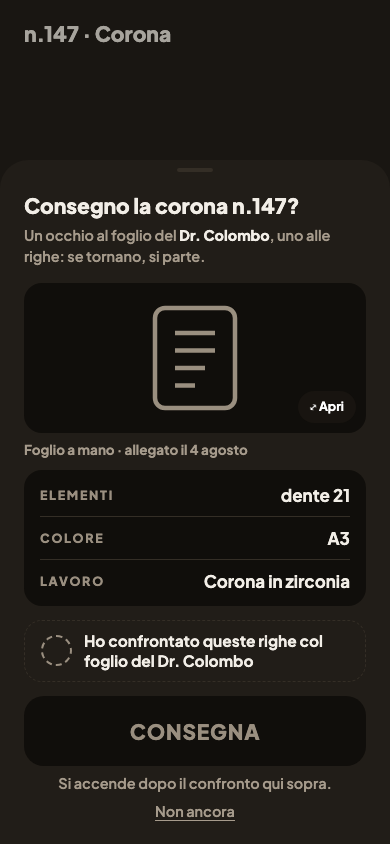
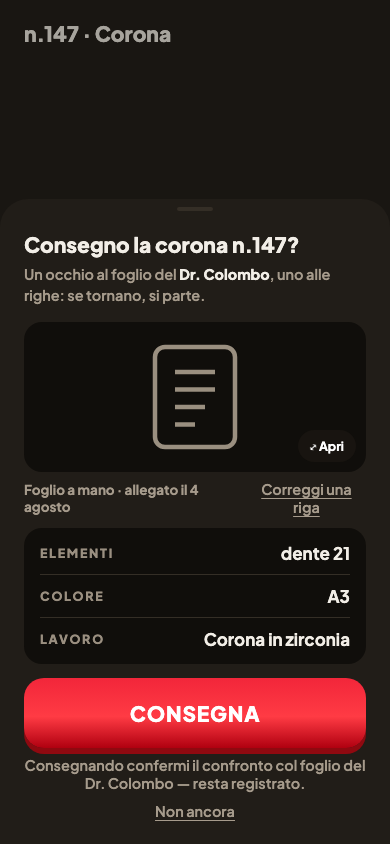
docs(verbale): D210-D213 — le quattro scelte sui mockup dell'ondata B; spec completa, attesa ratifica
D210: variante B «il framing prima» (colore del Passo 3 = trascrizione,
sgancio «lo scegliamo noi», tre vie di modifica). D211: mini-foglio D1
per «chi ha prescritto». D212: gesto typo-vs-divergenza ratificato.
D213: conferma di consegna in forma LEGGERA — la due-tempi è stata
respinta («troppo attrito») e ridisegnata nello stesso turno: il tocco
su CONSEGNA è la conferma, V5 di D207 intatto (miniatura affiancata +
registrazione chi/quando); più leggero di così riapre V5.

Spec §4 riempita con le scelte; mockup C aggiornato (scena 2 leggera,
scena 3 rimossa) e rifotografato. Roadmap (59) e memoria (135) allineate.

Changed region(s): [[0.0615, 0.5237, 0.9538, 0.955], [0.0615, 0.1848, 0.8615, 0.7085], [0.8, 0.4621, 0.8923, 0.4929]]

diff --git a/docs/design/mockups/2026-08-04-ondata-b-C-precheck-consegna.html b/docs/design/mockups/2026-08-04-ondata-b-C-precheck-consegna.html
@@ -147,8 +147,8 @@ body{font-family:'Plus Jakarta Sans',system-ui,sans-serif;background:#ddd6c4;col
   </div>
 </div>
 
-<!-- ═══════════════ SCENA 2 — La conferma guardando il foglio (disarmata) ═══════════════ -->
-<div class="nota-scena">Foglio 2 di 3 — <b>la conferma di consegna, guardando il foglio</b> (V5): la prescrizione davanti agli occhi, le righe trascritte sotto, e la spunta da armare. Il CONSEGNA resta spento finché non attesti — e ti dice perché.</div>
+<!-- ═══════════════ SCENA 2 — La conferma leggera: il CONSEGNA È la conferma ═══════════════ -->
+<div class="nota-scena">Foglio 2 di 2 — <b>la conferma LEGGERA</b> (ridisegno dopo il «troppo attrito» di Francesco): niente spunta da armare, il tasto è subito acceso. Il foglio sta davanti agli occhi, le righe sotto, e toccando CONSEGNA confermi il confronto — chi e quando restano registrati. Zero tocchi in più rispetto a oggi.</div>
 <div class="scena" id="scena-2">
   <div class="sfondo-scheda" aria-hidden="true">
     <div class="sfondo-titolo">n.147 · Corona</div>
@@ -166,6 +166,7 @@ body{font-family:'Plus Jakarta Sans',system-ui,sans-serif;background:#ddd6c4;col
       </div>
       <div class="fonte-eti">
         <span class="fonte-nome">Foglio a mano · allegato il 4 agosto</span>
+        <button class="quieto">Correggi una riga</button>
       </div>
 
       <div class="confronta">
@@ -182,66 +183,11 @@ body{font-family:'Plus Jakarta Sans',system-ui,sans-serif;background:#ddd6c4;col
           <span class="conf-v">Corona in zirconia</span>
         </div>
       </div>
-
-      <button class="attesta">
-        <span class="attesta-tondo"></span>
-        <span class="attesta-testo">Ho confrontato queste righe col foglio del Dr. Colombo</span>
-      </button>
-
-      <button class="tp-btn" disabled>Consegna</button>
-      <p class="tp-spiega">Si accende dopo il confronto qui sopra.</p>
-
-      <div style="margin-top:10px;display:flex;justify-content:center">
-        <button class="quieto">Non ancora</button>
-      </div>
-    </div>
-  </div>
-</div>
-
-<!-- ═══════════════ SCENA 3 — La conferma armata ═══════════════ -->
-<div class="nota-scena">Foglio 3 di 3 — <b>la spunta armata</b>: la conferma è registrata (chi e quando finiscono nell'archivio, server-side), il CONSEGNA si accende. Un tap in più, una volta per lavoro — ed è la cosa che rende vera l'attribuzione al medico.</div>
-<div class="scena" id="scena-3">
-  <div class="sfondo-scheda" aria-hidden="true">
-    <div class="sfondo-titolo">n.147 · Corona</div>
-  </div>
-  <div class="scrim"></div>
-  <div class="sheet-wrap">
-    <div class="foglio">
-      <div class="maniglia"></div>
-      <h2 class="foglio-titolo">Consegno la corona n.147?</h2>
-      <p class="foglio-sotto">Un occhio al foglio del <b>Dr. Colombo</b>, uno alle righe: se tornano, si parte.</p>
-
-      <div class="fonte-grande">
-        <svg width="120" height="120" viewBox="0 0 24 24" fill="none" stroke="var(--faint)" stroke-width="0.9"><rect x="4" y="2" width="16" height="20" rx="2"/><line x1="8" y1="7" x2="16" y2="7"/><line x1="8" y1="10.5" x2="16" y2="10.5"/><line x1="8" y1="14" x2="14" y2="14"/><line x1="8" y1="17.5" x2="12" y2="17.5"/></svg>
-        <button class="fonte-apri">⤢ Apri</button>
-      </div>
-      <div class="fonte-eti">
-        <span class="fonte-nome">Foglio a mano · allegato il 4 agosto</span>
-      </div>
-
-      <div class="confronta">
-        <div class="conf-riga">
-          <span class="conf-k">Elementi</span>
-          <span class="conf-v">dente 21</span>
-        </div>
-        <div class="conf-riga">
-          <span class="conf-k">Colore</span>
-          <span class="conf-v">A3</span>
-        </div>
-        <div class="conf-riga">
-          <span class="conf-k">Lavoro</span>
-          <span class="conf-v">Corona in zirconia</span>
-        </div>
-      </div>
-
-      <button class="attesta armata">
-        <span class="attesta-tondo">✓</span>
-        <span class="attesta-testo">Confrontato col foglio del Dr. Colombo — adesso, da te</span>
-      </button>
 
       <button class="tp-btn">Consegna</button>
+      <p class="tp-spiega">Consegnando confermi il confronto col foglio del Dr. Colombo — resta registrato.</p>
 
-      <div style="margin-top:14px;display:flex;justify-content:center">
+      <div style="margin-top:10px;display:flex;justify-content:center">
         <button class="quieto">Non ancora</button>
       </div>
     </div>

diff --git a/docs/superpowers/specs/2026-08-04-ondata-b-prescrizione-design.md b/docs/superpowers/specs/2026-08-04-ondata-b-prescrizione-design.md
@@ -1,6 +1,6 @@
 # Spec ondata B — «La prescrizione la cattura il wizard» (P38 + P37)
 
-**Stato:** 🚧 BOZZA — in scrittura (sessione ① di 4). Si ratifica DOPO la scelta dei mockup (0B).
+**Stato:** 🟡 SCELTE INCISE (D210-D213, 04/08/2026) — in attesa della RATIFICA finale di Francesco.
 **Quando:** 4 agosto 2026 (`provato:` `date` → `Tue Aug 4 08:31 CEST 2026`).
 **Decide:** Francesco Formicola.
 **Nasce da:** D201 (strada B) · D202 (le 4 forme) · D203 (perimetro P38+P37) · D204 (il wizard
@@ -138,57 +138,71 @@ correggono in questa ondata.
   raggruppa i clienti per `studio_nome` uguale — l'embrione dell'anagrafica per P37 (fragile:
   confronto case-sensitive; le chip che lo consumano oggi sono irraggiungibili — R-E2).
 
-### §4.1 Wizard — il framing della trascrizione (DUE varianti ai mockup)
+### §4.1 Wizard — il framing della trascrizione — ✅ SCELTA: VARIANTE B (D210)
 
-- **Variante A — «La conferma dopo»:** i passi del banco restano INTATTI (zero cambi, zero
-  tap). Nel «Fatto!» la card nuova «La prescrizione» elenca le caratteristiche: elementi con
-  check già acceso (W20), colore e tipo con chip «Era sulla prescrizione?» da accendere con UN
-  tap facoltativo. Chip ignorata = caratteristica FUORI dallo snapshot (V2: omissione lecita).
-- **Variante B — «Il framing prima»:** la casella colore del Passo 3 si presenta come
-  trascrizione («come scritto sulla prescrizione») con lo sgancio «lo scegliamo noi»; il
-  «Fatto!» mostra il riepilogo in sola lettura. Zero tap aggiunti nel percorso felice; il
-  rischio dichiarato: un colore scelto dal laboratorio digitato sotto l'etichetta sbagliata.
+**«Il framing prima»** (parole di Francesco: «*b framing, con la possibilità eventualmente di
+modificare se ci fosse qualche problema*»):
+- La casella colore del Passo 3 si presenta come trascrizione — etichetta **«Colore — come
+  scritto sulla prescrizione»** — con lo sgancio quieto **«Non è sulla prescrizione: lo
+  scegliamo noi»** (LinkQuieto). Scrivere lì È trascrivere: il valore nasce `prescritto`.
+  Con lo sgancio premuto, il valore nasce scelta-di-laboratorio e resta FUORI dallo snapshot.
+- Il «Fatto!» mostra la card «La prescrizione» in **sola lettura**: elementi ✓ (W20), colore ✓
+  se trascritto, e la riga della fonte con lo stato.
+- **Il TIPO entra nello snapshot alla conferma di consegna** (D213): quando l'operatore
+  conferma le righe guardando il foglio, la riga «Lavoro» è fra quelle confermate.
+- **Le tre vie di modifica** (la richiesta esplicita di D210): ① lo sgancio nel Passo 3 ·
+  ② il gesto typo-vs-divergenza (§4.3) su ogni correzione successiva · ③ la finestra «fino
+  alla consegna» (direttiva §9).
+- Fonte di verità visiva: `docs/design/mockups/2026-08-04-ondata-b-A-prescrizione-fatto.html`,
+  scene **b1** e **b2** (+ scatti 390/768/1280 × 2 temi).
+- ⚠ Rischio dichiarato della B, agli atti in D210: un colore scelto dal lab digitato sotto
+  l'etichetta della prescrizione — mitigato da ② e dalla conferma al precheck (§4.4).
 
-### §4.2 Allega la fonte (foglio a scelta breve)
+### §4.2 Allega la fonte (foglio a scelta breve) — come mockup, scena a2
 
-Il CTA del «Fatto!» apre un **foglio a 2 voci** (pattern DS Sheet): «Scatta una foto» (input
-`capture="environment"`, il caso più frequente resta a 2 tap) · «Dalla galleria o un PDF»
-(input `accept="image/*,application/pdf"` SENZA capture). Terza riga quieta per email/
-piattaforma: registra il riferimento (V7 quando non c'è nulla di scritto). Tipo-fonte dedotto
-dal gesto, mai domanda obbligatoria.
+Il CTA del «Fatto!» apre un **foglio a 3 voci** (anatomia MenuVoce §5.34 dentro uno Sheet):
+«Scatta una foto» (input `capture="environment"`, il caso più frequente resta a 2 tap) ·
+«Dalla galleria o un PDF» (input `accept="image/*,application/pdf"` SENZA capture — il
+precedente in casa è la via Galleria di `TabImmagini.tsx:391`) · terza voce quieta «Non ce
+l'ho ancora qui» per email/piattaforma: registra il riferimento (V7 quando non c'è nulla di
+scritto). Tipo-fonte dedotto dal gesto, mai domanda obbligatoria. Fonte visiva:
+`2026-08-04-ondata-b-A-prescrizione-fatto.html`, scena **a2**.
 
-### §4.3 Il gesto typo-vs-divergenza (V4)
+### §4.3 Il gesto typo-vs-divergenza (V4) — ✅ RATIFICATO COME MOSTRATO (D212)
 
 Sulla modifica di un campo CON snapshot (da `ModificaRigaSheet` o dal form modifica): foglio
 «Era scritto così sulla prescrizione?» a DUE rami, nessun default preselezionato (pattern
 EHR/Part 11: la scelta deve essere intenzionale, il valore precedente resta leggibile):
-- «Sì — sto correggendo la trascrizione» → lo snapshot si aggiorna (typo).
-- «No — lo cambiamo noi» → lo snapshot resta, l'eseguito cambia, e si chiede il motivo
+- «Sul foglio c'è scritto …» → lo snapshot si aggiorna (typo).
+- «No: lo stiamo cambiando noi» → lo snapshot resta, l'eseguito cambia, e si chiede il motivo
   (pastiglie: richiesta del dentista · esigenza tecnica · materiale non disponibile · altro,
-  con testo libero facoltativo) — V9.
+  con nota libera facoltativa) — V9. Solo questo ramo lo chiede.
+Fonte visiva: `2026-08-04-ondata-b-B-typo-divergenza.html` (2 scene).
 
-### §4.4 Il precheck arricchito (V1 · V5 · V6 · V7)
+### §4.4 Il precheck arricchito (V1 · V5 · V6 · V7) — ✅ FORMA LEGGERA (D213)
 
-- Bloccante nuovo in «Prima di consegnare»: «Manca la prescrizione allegata» (V1).
-- Alla conferma di consegna: **miniatura della fonte davanti agli occhi** (pattern KFI: su
-  mobile immagine sopra, righe dello snapshot sotto, ingrandibile) + **attestazione a due
-  tempi** («Ho confrontato con la prescrizione del Dr. X» — un tap che arma, il CONSEGNA che
-  parte; mai checkbox pre-spuntata; l'attestazione nomina il documento). Registrata
-  server-side: chi, quando (V5).
-- Caso solo-scansione: bloccante dedicato con percorso di rimedio (conferma scritta del
-  dentista → diventa fonte aggiuntiva) (V6).
-- Caso «in attesa di conferma scritta» (voce/telefono): stato visibile sulla scheda, bloccante
-  alla consegna finché la conferma non arriva (V7).
+- Bloccanti nuovi in «Prima di consegnare» (RigaBloccante §5.30): «Manca il foglio della
+  prescrizione» (V1) · «C'è solo la scansione, senza una scelta scritta del dentista» con
+  percorso di rimedio: conferma scritta → fonte aggiuntiva (V6) · «In attesa di conferma
+  scritta» per la prescrizione a voce/telefono (V7, stato visibile anche sulla scheda).
+- **La conferma di consegna, forma leggera (D213 — la due-tempi è stata respinta):** il
+  foglio della prescrizione davanti agli occhi (pattern KFI: immagine sopra, ingrandibile;
+  righe dello snapshot sotto) e **il tocco su CONSEGNA È la conferma** — tasto subito acceso,
+  frase sotto: «Consegnando confermi il confronto col foglio del Dr. X — resta registrato».
+  Registrazione server-side (chi, quando) nella stessa transazione della consegna (V5).
+  Link quieto «Correggi una riga» → gesto §4.3. Zero tocchi in più rispetto a oggi.
+  ⚠ Confine dichiarato a verbale: più leggero di così riapre V5.
+Fonte visiva: `2026-08-04-ondata-b-C-precheck-consegna.html` (2 scene).
 
-### §4.5 P37 — «chi ha prescritto» (D196, DUE varianti ai mockup)
+### §4.5 P37 — «chi ha prescritto» (D196) — ✅ SCELTA: D1, IL MINI-FOGLIO (D211)
 
-Solo quando il cliente è un'entità (studio/società): **selezione a un tap** fra i medici dello
-studio, default sull'ultimo prescrittore di quel cliente; mai testo libero per-lavoro; il nome
-nuovo si aggiunge all'anagrafica dello studio (pattern NuovoDentistaSheet).
-- **Variante D1:** mini-foglio «Chi ha prescritto?» subito dopo il tile del Passo 1.
-- **Variante D2:** riga di pastiglie inline sotto il tile scelto, nello stesso Passo 1.
-Il prescrittore diventa VISIBILE sulla scheda (oggi `richiedente_nome` non compare da nessuna
-parte nella scheda v3) con la sua via di correzione (direttiva §9).
+Solo quando il cliente è un'entità (studio/società): dopo il tile del Passo 1 sale il
+mini-foglio «Chi ha prescritto?» con **l'ultimo prescrittore di quel cliente già proposto**
+(un tap e via); gli altri medici sotto; «È un altro» aggiunge il medico all'anagrafica dello
+studio (pattern NuovoDentistaSheet) — mai testo libero per-lavoro. Per il dottore singolo il
+foglio non compare mai (D196). Il prescrittore diventa VISIBILE sulla scheda (oggi
+`richiedente_nome` non compare da nessuna parte nella scheda v3) con la sua via di correzione
+(direttiva §9). Fonte visiva: `2026-08-04-ondata-b-D-chi-ha-prescritto.html`, scena **d1**.
 
 ## §5 La DdC a due righe (D101)
 

diff --git a/docs/design/decisions/2026-07-28-wizard-ondata-b-decisioni.md b/docs/design/decisions/2026-07-28-wizard-ondata-b-decisioni.md
@@ -1,8 +1,8 @@
 # Verbale — decisioni di apertura dell'ondata (b), wizard «Nuovo lavoro»
 
-**Data:** 28 luglio 2026 · **aggiornato alla settantottesima tornata (D208-D209: D179+E1 si pianificano come voce P41; Q1 chiusa col default — `npm test` = solo unit)** ·
+**Data:** 28 luglio 2026 · **aggiornato alla settantanovesima tornata (D210-D213: le quattro scelte sui mockup dell'ondata B — variante B «il framing prima», mini-foglio D1, gesto typo-vs-divergenza ratificato, e la conferma di consegna in forma LEGGERA dopo il «troppo attrito»)** ·
 **Decide:** Francesco Formicola · **Stato:** ratificato in sessione
-**209 decisioni in settantotto tornate:** D1-D8 in apertura · D9-D16 sui mockup · **D17-D20 alla ratifica della
+**213 decisioni in settantanove tornate:** D1-D8 in apertura · D9-D16 sui mockup · **D17-D20 alla ratifica della
 spec**, la sera. ✅ Con la terza tornata la spec dell'ondata (b) è **RATIFICATA**
 (`docs/superpowers/specs/2026-07-28-wizard-ondata-b-schermate-design.md`).
 **Nasce da:** `docs/roadmap/2026-07-28-ondata-b-handoff.md` (punto di ripresa) + spec ratificata
@@ -1694,3 +1694,18 @@ quattro handoff di fila chiedevano, e la finestra mai processata della coda deci
 |---|---|---|---|
 | **D208** | 🗓 **D179 + E1 SI PIANIFICANO — NASCE LA VOCE P41: un'ondata dedicata «il banco di prova automatico», in coda DOPO l'ondata B.** Dentro: l'esecuzione di **D179** (le ~20 prove a schermo «pubbliche» in un job Playwright in CI — decisa il 28/07 alla sessantaseiesima tornata e **mai eseguita**: quattro handoff consecutivi l'hanno segnalata) + la scheda **E1** di `docs/ops/EMERGENTI.md` (Supabase locale + prove RLS a due utenti — oggi l'unico canale DB dei test si connette come owner e BYPASSA la RLS; misurata **5-10 giorni**) + **E3**, che si chiude naturalmente con E1 | Francesco, il 04/08 alla ripresa, sulla domanda a tre uscite del betting (si pianifica · si dichiara che non si fa · se ne riparla a fine sessione): «*Si pianifica*» | ✅ **La voce smette di girare per gli handoff: ha una casa (P41) e un posto in coda (dopo l'ondata B).** Criterio di done, dalle schede: `supabase db reset` produce uno schema identico al remoto (diff incollato) · prove RLS «il lab A non vede i dati del lab B» **verdi in CI** · le ~20 prove a schermo eseguite da una macchina a ogni salvataggio. Traguardo invariato (FD): **prima del primo laboratorio vero**. D-Q2 (quale prova a schermo scrivere per prima) si scioglie dentro P41 |
 | **D209** | ✅ **Q1 È CHIUSA COL DEFAULT (a): `npm test` ESEGUE SOLO `tests/unit`** — lo script di `package.json:12` si allinea al commento di `vitest.config.ts`; le integration si lanciano per nome (`test:integration`). Chiude la scheda **E2** di `docs/ops/EMERGENTI.md` | Francesco, il 04/08 alla ripresa, sulla Q1 della coda decisioni (basso rischio, default proposto): «*Ok al default*» | ✅ **Eseguita nello stesso turno** (una riga in `package.json` + commento di `vitest.config.ts` riscritto in forma vera). `provato:` `npm test` → **Test Files 394 passed (394) · Tests 4542 passed (4542)**, 72 s — i 3 file d'integrazione (coi loro 19 test saltati) **non vengono più nemmeno raccolti** (prima: 397 raccolti, 19 saltati). ⚠ **La CI non cambia:** `.github/workflows/ci.yml:34` chiama `npx vitest run` direttamente — lì le integration restano raccolte e si saltano da sole senza `SUPABASE_DB_URL` (skipIf) |
+
+### Settantanovesima tornata — D210-D212: le scelte sui mockup dell'ondata B (04/08/2026)
+
+Le risposte di Francesco sui 4 mockup della sessione ① (66 scatti, 390/768/1280 × chiaro/scuro,
+`docs/design/mockups/screenshots/2026-08-04-ondata-b/`). Tre scelte ratificate; la quarta — la
+conferma a due tempi alla consegna — è **RESPINTA come troppo attrito**: la superficie si
+ridisegna più leggera nella stessa sessione (il vincolo V5 di D207 — conferma guardando la
+fonte, registrata server-side — resta in piedi: cambia la FORMA, non la condizione).
+
+| # | decisione | come è stata posta | che cosa comporta |
+|---|---|---|---|
+| **D210** | 🪄 **IL MECCANISMO DELLA TRASCRIZIONE È LA VARIANTE B «IL FRAMING PRIMA»:** la casella colore del Passo 3 si presenta come trascrizione («come scritto sulla prescrizione») con lo sgancio «Non è sulla prescrizione: lo scegliamo noi»; il «Fatto!» riepiloga in sola lettura; il TIPO entra nello snapshot alla conferma di consegna guardando il foglio (mockup `2026-08-04-ondata-b-A-prescrizione-fatto.html`, scene b1/b2) | Francesco, il 04/08, sui mockup delle due varianti (A «conferma dopo» / B «framing prima» / mix): «*b framing, con la possibilità eventualmente di modificare se ci fosse qualche problema*» | 🔑 **La possibilità di modifica che Francesco chiede c'è per costruzione, su TRE vie:** ① lo sgancio nel Passo 3 stesso · ② il gesto typo-vs-divergenza (D212) su ogni correzione successiva · ③ la finestra «fino alla consegna» (direttiva §9). ⚠ Il rischio dichiarato della B (un colore scelto dal lab digitato sotto l'etichetta della prescrizione) è mitigato da D212 e dalla conferma al precheck (forma in ridisegno) |
+| **D211** | 👤 **«CHI HA PRESCRITTO?» = VARIANTE D1, IL MINI-FOGLIO:** scelto uno studio con più medici, sale il foglio con l'ultimo prescrittore di quel cliente già proposto (un tap e via); per il dottore singolo non compare mai (D196); «È un altro» aggiunge il medico all'anagrafica dello studio — mai testo libero per-lavoro (mockup `2026-08-04-ondata-b-D-chi-ha-prescritto.html`, scena d1) | Francesco, il 04/08, sulle due varianti (D1 mini-foglio / D2 pastiglie inline): «*D1*» | Una domanda alla volta (L1). Il prescrittore diventa VISIBILE sulla scheda con la sua via di correzione (oggi `richiedente_nome` non compare in nessuna superficie della scheda v3) |
+| **D212** | ✏ **IL GESTO «ERA SCRITTO COSÌ SULLA PRESCRIZIONE?» È RATIFICATO COME MOSTRATO:** due vie senza preselezione (typo → si corregge la trascrizione · «lo cambiamo noi» → lo snapshot resta e si registra il motivo con le pastiglie), il valore precedente resta leggibile, il motivo si chiede SOLO sul ramo della divergenza (mockup `2026-08-04-ondata-b-B-typo-divergenza.html`) | Francesco, il 04/08: «*Sì, va bene*» | Attua V4 e V9 di D207. Il pattern segue la tassonomia clinica correction/amendment (fonti nel referto best-practice: AHIMA · 21 CFR Part 11 — mai oscurare il valore precedente, motivo solo sui cambi veri, nessun default preselezionato) |
+| **D213** | ⚖ **LA CONFERMA DI CONSEGNA È LA FORMA LEGGERA: IL TOCCO SU «CONSEGNA» È LA CONFERMA.** Prima versione (spunta da armare + tasto spento) RESPINTA da Francesco come troppo attrito; ridisegno nello stesso turno: foglio della prescrizione davanti agli occhi + righe trascritte sotto + tasto subito acceso, con la frase «Consegnando confermi il confronto col foglio del Dr. X — resta registrato» e la registrazione server-side di chi e quando dentro la transazione di consegna (mockup `2026-08-04-ondata-b-C-precheck-consegna.html`, scena 2 ridisegnata) | Francesco, il 04/08, prima «*Troppo attrito*» sulla forma a due tempi, poi sul ridisegno: «*Sì, va bene*» | 🔑 **Il vincolo V5 di D207 resta INTERO — cambia la forma, non la condizione:** la miniatura sta affiancata allo snapshot, la conferma è esplicita (il testo la nomina e la lega al gesto) e registrata (chi, quando). Zero tocchi in più rispetto a oggi. ⚠ Più leggero di così non si va senza riaprire V5: agli atti come confine dichiarato |

diff --git a/memory/MEMORY.md b/memory/MEMORY.md
@@ -1,5 +1,7 @@
 # UÀ — Project Memory
-**Ultimo aggiornamento:** 🗓 **D208-D209 — LA RIPRESA DEL 04/08 MATTINA: IL BETTING È FATTO (NASCE P41), Q1 CHIUSA COL DEFAULT, LA SPEC DELL'ONDATA B È IN CORSO** (134) — 🚪 **PUNTO DI RIPRESA: `docs/roadmap/2026-08-04-spec-ondata-b-handoff.md`** (la **§0 per prima** — due delle sue voci sono ora CHIUSE). ✅ **D208:** D179 (quarta segnalazione consecutiva) + E1 + E3 si PIANIFICANO — voce **11 · P41 «il banco di prova automatico»** in `docs/roadmap/ROADMAP-UFFICIALE.md`, in coda DOPO l'ondata B; D-Q2 si scioglie dentro P41. ✅ **D209:** Q1 chiusa col default (a) ed eseguita nello stesso turno — `package.json:12` → `"test": "vitest run tests/unit"`, commento di `vitest.config.ts` riscritto in forma vera (`provato:` `npm test` → **394 file (394) · 4542 test (4542)**, 72 s — le integration non vengono più nemmeno raccolte; la CI non cambia: `.github/workflows/ci.yml:34` chiama `npx vitest run` direttamente). 🔴 Della §0 resta: il conteggio DdC fresco (sessione ② dell'ondata, `npx tsx scripts/tmp/verifica-conteggio-ddc.ts` prima della migration che chiude la policy). ➡ **IN CORSO: la spec dell'ondata B (P38+P37) — sessione ① di 4, coi mockup a Francesco prima del codice (0B).** 📎 **209 decisioni in 78 tornate**; la prossima è **D210**.
+**Ultimo aggiornamento:** 🎨 **D210-D213 — I MOCKUP DELL'ONDATA B SONO SCELTI, LA SPEC È COMPLETA E ATTENDE LA RATIFICA** (135) — 🚪 **PUNTO DI RIPRESA: `docs/superpowers/specs/2026-08-04-ondata-b-prescrizione-design.md`.** ✅ **Le 4 scelte di Francesco (tornata 79):** D210 variante B «il framing prima» (casella colore del Passo 3 = trascrizione, sgancio «lo scegliamo noi», tre vie di modifica) · D211 mini-foglio D1 per «chi ha prescritto» (ultimo prescrittore già proposto) · D212 gesto typo-vs-divergenza ratificato · D213 conferma di consegna LEGGERA (la due-tempi respinta come troppo attrito: il tocco su CONSEGNA è la conferma, V5 intatto — più leggero di così riapre V5). 📎 Mockup: 4 file `2026-08-04-ondata-b-*.html` + 60 scatti in `docs/design/mockups/screenshots/2026-08-04-ondata-b/`. 🔎 **Scoperta load-bearing dell'esplorazione (6 lettori, spec §4.0):** il wizard di produzione è a 3 passi FISSI — `sequenzaPassi` non è mai stato cablato; l'input foto è solo-fotocamera (2 delle 4 forme D202 oggi impossibili); il wizard non manda mai `richiedente_nome`. Ritrovamenti R-E2 nello scratchpad di sessione, da riportare nell'handoff. ➡ **PROSSIMO: ratifica finale della spec → sessione ② (migration+RPC; PRIMA il conteggio DdC fresco).** 📎 **213 decisioni in 79 tornate**; la prossima è **D214**.
+
+**Aggiornamento precedente:** 🗓 **D208-D209 — LA RIPRESA DEL 04/08 MATTINA: IL BETTING È FATTO (NASCE P41), Q1 CHIUSA COL DEFAULT, LA SPEC DELL'ONDATA B È IN CORSO** (134) — 🚪 **PUNTO DI RIPRESA: `docs/roadmap/2026-08-04-spec-ondata-b-handoff.md`** (la **§0 per prima** — due delle sue voci sono ora CHIUSE). ✅ **D208:** D179 (quarta segnalazione consecutiva) + E1 + E3 si PIANIFICANO — voce **11 · P41 «il banco di prova automatico»** in `docs/roadmap/ROADMAP-UFFICIALE.md`, in coda DOPO l'ondata B; D-Q2 si scioglie dentro P41. ✅ **D209:** Q1 chiusa col default (a) ed eseguita nello stesso turno — `package.json:12` → `"test": "vitest run tests/unit"`, commento di `vitest.config.ts` riscritto in forma vera (`provato:` `npm test` → **394 file (394) · 4542 test (4542)**, 72 s — le integration non vengono più nemmeno raccolte; la CI non cambia: `.github/workflows/ci.yml:34` chiama `npx vitest run` direttamente). 🔴 Della §0 resta: il conteggio DdC fresco (sessione ② dell'ondata, `npx tsx scripts/tmp/verifica-conteggio-ddc.ts` prima della migration che chiude la policy). ➡ **IN CORSO: la spec dell'ondata B (P38+P37) — sessione ① di 4, coi mockup a Francesco prima del codice (0B).** 📎 **209 decisioni in 78 tornate**; la prossima è **D210**.
 
 **Aggiornamento precedente:** ✅ **D207 — MECCANISMO RATIFICATO COI VINCOLI DEL PANEL: L'ONDATA B È PRONTA PER LA SPEC** (133) — 🚪 **PUNTO DI RIPRESA: `docs/roadmap/2026-08-04-spec-ondata-b-handoff.md`** (la **§0 per prima**). ⚖ Panel su D204: tre lenti, tre REGGE CON CONDIZIONI (`docs/roadmap/2026-08-04-panel-d204-referto.md`); le condizioni §2 sono ORA i vincoli della spec (D207). Modello dati raccomandato: tabella `lavori_prescrizioni` (snapshot JSONB server-side, fonte con CHECK «almeno una», RPC dedicate, clone nel rifacimento, chiusura policy `ddc_laboratorio_update`). 📌 **FASE 7 in chiusura:** `tsc` **0** · `vitest` **4542 \| 19** (394 file) · build **0**, 81 rotte · sei guardie verdi (`npm run verify:full`, 1:54). 🚀 In produzione da oggi: D193/D199 (`provato:` `#9a8f80` nel CSS servito), Fase 0 PIPELINE-3, tutto pubblicato. 🔴 §0 dell'handoff: D179 alla QUARTA volta (a betting con E1) · conteggio DdC fresco mai misurato (sessione ②) · Q1 in coda senza risposta. ➡ **PROSSIMO: sessione nuova → spec ondata B (P38+P37) con mockup prima del codice — sessione ① di 4.** 📎 **207 decisioni in 77 tornate**; la prossima è **D208**.
 

diff --git a/docs/roadmap/ROADMAP-UFFICIALE.md b/docs/roadmap/ROADMAP-UFFICIALE.md
@@ -1,5 +1,7 @@
 # UÀ — Roadmap Ufficiale
-**Ultimo aggiornamento:** 🗓 **D208-D209 — LA RIPRESA DEL 04/08 MATTINA: D179+E1 VANNO A PIANO (NASCE LA VOCE 11 · P41), Q1 CHIUSA COL DEFAULT** (58) — 🚪 **Punto di ripresa: `docs/roadmap/2026-08-04-spec-ondata-b-handoff.md`, la §0 per prima — due delle sue voci sono ora CHIUSE (il betting di D179+E1 è fatto; Q1 è decisa); restano il conteggio DdC fresco (sessione ② dell'ondata) e D-Q2 (che si scioglie dentro P41).** ✅ **D208:** D179 (alla quarta segnalazione consecutiva) + E1 + E3 diventano la voce **11 · P41 «il banco di prova automatico»**, in coda DOPO l'ondata B — la voce smette di girare per gli handoff. ✅ **D209:** `npm test` = solo `tests/unit`, eseguita nello stesso turno (`provato:` 394 file (394) · 4542 test (4542), 72 s — le integration non vengono più nemmeno raccolte; la CI non cambia: chiama `npx vitest run` direttamente). ➡ **IN CORSO: la spec dell'ondata B (P38+P37) con mockup a Francesco prima del codice (0B) — sessione ① di 4.** 📎 **209 decisioni in 78 tornate.**
+**Ultimo aggiornamento:** 🎨 **D210-D213 — I MOCKUP DELL'ONDATA B SONO SCELTI: VARIANTE B «IL FRAMING PRIMA», MINI-FOGLIO D1, GESTO RATIFICATO, CONFERMA DI CONSEGNA LEGGERA** (59) — 🚪 **Punto di ripresa: la spec `docs/superpowers/specs/2026-08-04-ondata-b-prescrizione-design.md` (stato: scelte incise, attesa ratifica finale).** ✅ **Sessione ① dell'ondata B quasi completa:** esplorazione a 6 lettori (fatti in spec §4.0, con la scoperta che il wizard di produzione è ancora a 3 passi FISSI — la macchina adattiva non è mai stata cablata), 4 mockup × 66 scatti (390/768/1280 × chiaro/scuro, `docs/design/mockups/screenshots/2026-08-04-ondata-b/`), le 4 scelte di Francesco incise in tornata 79. 🔑 **D213 nasce da un giro vero di feedback:** la conferma a due tempi è stata RESPINTA («troppo attrito») e ridisegnata nello stesso turno — il tocco su CONSEGNA è la conferma, V5 intatto, zero tocchi in più. ➡ **PROSSIMO: ratifica finale della spec → sessione ② (migration + RPC, col conteggio DdC fresco PRIMA della policy).** 📎 **213 decisioni in 79 tornate.**
+
+**Aggiornamento precedente:** 🗓 **D208-D209 — LA RIPRESA DEL 04/08 MATTINA: D179+E1 VANNO A PIANO (NASCE LA VOCE 11 · P41), Q1 CHIUSA COL DEFAULT** (58) — 🚪 **Punto di ripresa: `docs/roadmap/2026-08-04-spec-ondata-b-handoff.md`, la §0 per prima — due delle sue voci sono ora CHIUSE (il betting di D179+E1 è fatto; Q1 è decisa); restano il conteggio DdC fresco (sessione ② dell'ondata) e D-Q2 (che si scioglie dentro P41).** ✅ **D208:** D179 (alla quarta segnalazione consecutiva) + E1 + E3 diventano la voce **11 · P41 «il banco di prova automatico»**, in coda DOPO l'ondata B — la voce smette di girare per gli handoff. ✅ **D209:** `npm test` = solo `tests/unit`, eseguita nello stesso turno (`provato:` 394 file (394) · 4542 test (4542), 72 s — le integration non vengono più nemmeno raccolte; la CI non cambia: chiama `npx vitest run` direttamente). ➡ **IN CORSO: la spec dell'ondata B (P38+P37) con mockup a Francesco prima del codice (0B) — sessione ① di 4.** 📎 **209 decisioni in 78 tornate.**
 
 **Aggiornamento precedente:** ✅ **D207 — IL MECCANISMO DELLA PRESCRIZIONE È RATIFICATO CON LE CONDIZIONI DEL PANEL: L'ONDATA B (P38+P37) È PRONTA PER LA SPEC** (57) — 🚪 **Punto di ripresa: `docs/roadmap/2026-08-04-spec-ondata-b-handoff.md`, la §0 per prima.** ⚖ **Panel a tre lenti disgiunte, tre REGGE CON CONDIZIONI** (`docs/roadmap/2026-08-04-panel-d204-referto.md`): l'attribuzione al medico è vera quando è FALSIFICABILE — fonte allegata obbligatoria all'emissione, provenienza per-caratteristica, snapshot server-side in tabella propria, gesto typo-vs-divergenza, solo-scansione bloccato all'emissione. 🔑 La lente dati ha trovato che D204 alla lettera avrebbe CANCELLATO la trascrizione alla prima modifica (UNIQUE+DELETE&INSERT sui denti) → tabella `lavori_prescrizioni`. 📌 **FASE 7 in chiusura (`npm run verify:full`, 1:54):** `tsc` **0** · `vitest` **4542 \| 19** (394 file) · build **0**, 81 rotte · sei guardie verdi. Giornata: D197-D207 (11 decisioni in 6 tornate), Fase 0 PIPELINE-3 nel metodo, D193 approvata e PUBBLICATA con prova nel CSS, dossier+verifiche normative+brainstorm+panel dell'ondata B. ➡ **PROSSIMO: sessione nuova, spec ondata B con mockup a Francesco prima del codice (0B) — sessione ① di 4.** A betting: **D179** (quarta volta) ed **E1** di `docs/ops/EMERGENTI.md`. 📎 **207 decisioni in 77 tornate.**
 

diff --git a/memory/SESSION_ACTIVE.md b/memory/SESSION_ACTIVE.md
@@ -1,22 +1,15 @@
-# Sessione attiva — 04/08 mattina: D208-D209 ratificate, spec ondata B in corso
+# Sessione attiva — 04/08: D208-D213, spec ondata B completa in attesa di ratifica
 
-🚪 **PUNTO DI RIPRESA:** `docs/roadmap/2026-08-04-spec-ondata-b-handoff.md` — §0 per prima
-(due voci su tre ora CHIUSE).
+🚪 **PUNTO DI RIPRESA:** `docs/superpowers/specs/2026-08-04-ondata-b-prescrizione-design.md`
+(stato: scelte D210-D213 incise, attesa RATIFICA finale di Francesco).
 
-✅ **D208:** D179+E1+E3 pianificate → voce **11 · P41 «il banco di prova automatico»** nella
-roadmap, dopo l'ondata B. D-Q2 si scioglie lì.
-✅ **D209:** Q1 chiusa col default (a), eseguita: `npm test` = solo `tests/unit`
-(`provato:` 394 file · 4542 test, integration non più raccolte; CI invariata).
+✅ **Mattina:** D208 (P41 «banco di prova automatico», dopo l'ondata B) · D209 (Q1 default,
+eseguita: npm test = solo unit, provato).
+✅ **Sessione ① ondata B:** esplorazione 6 lettori (spec §4.0 — wizard REALE a 3 passi fissi,
+input foto solo-fotocamera, richiedente_nome mai dal wizard) · 4 mockup, 60 scatti ·
+**le 4 scelte incise (tornata 79):** D210 variante B framing · D211 mini-foglio D1 ·
+D212 gesto ratificato · D213 conferma leggera (due-tempi RESPINTA; V5 intatto).
 
-🔴 Resta della §0: conteggio DdC fresco (sessione ②).
-
-➡ **IN CORSO: spec ondata B (P38+P37), sessione ① di 4** — bozza spec scritta
-(`docs/superpowers/specs/2026-08-04-ondata-b-prescrizione-design.md`, §4 in attesa delle
-scelte mockup) · **4 mockup fatti e fotografati** (66 scatti, 390/768/1280 × chiaro/scuro, in
-`docs/design/mockups/screenshots/2026-08-04-ondata-b/`): A=Fatto! due varianti (conferma
-dopo/framing prima) · B=gesto typo-vs-divergenza · C=precheck con attestazione ·
-D=chi-ha-prescritto due varianti. **ATTESE le scelte di Francesco** (→ D210+).
-Esplorazione: 6 lettori, fatti chiave in spec §4.0; ritrovamenti R-E2 in scratchpad
-(`ritrovamenti-r-e2-sessione-spec.md`) per l'handoff. Citare «MDCG 2021-3, marzo 2021».
-
-📎 **209 decisioni in 78 tornate**; la prossima è **D210**.
+📎 Ritrovamenti R-E2 in scratchpad (`ritrovamenti-r-e2-sessione-spec.md`) → handoff.
+➡ **PROSSIMO: ratifica spec → sessione ② (migration+RPC; PRIMA `verifica-conteggio-ddc.ts`).**
+📎 **213 decisioni in 79 tornate**; la prossima è **D214**.
